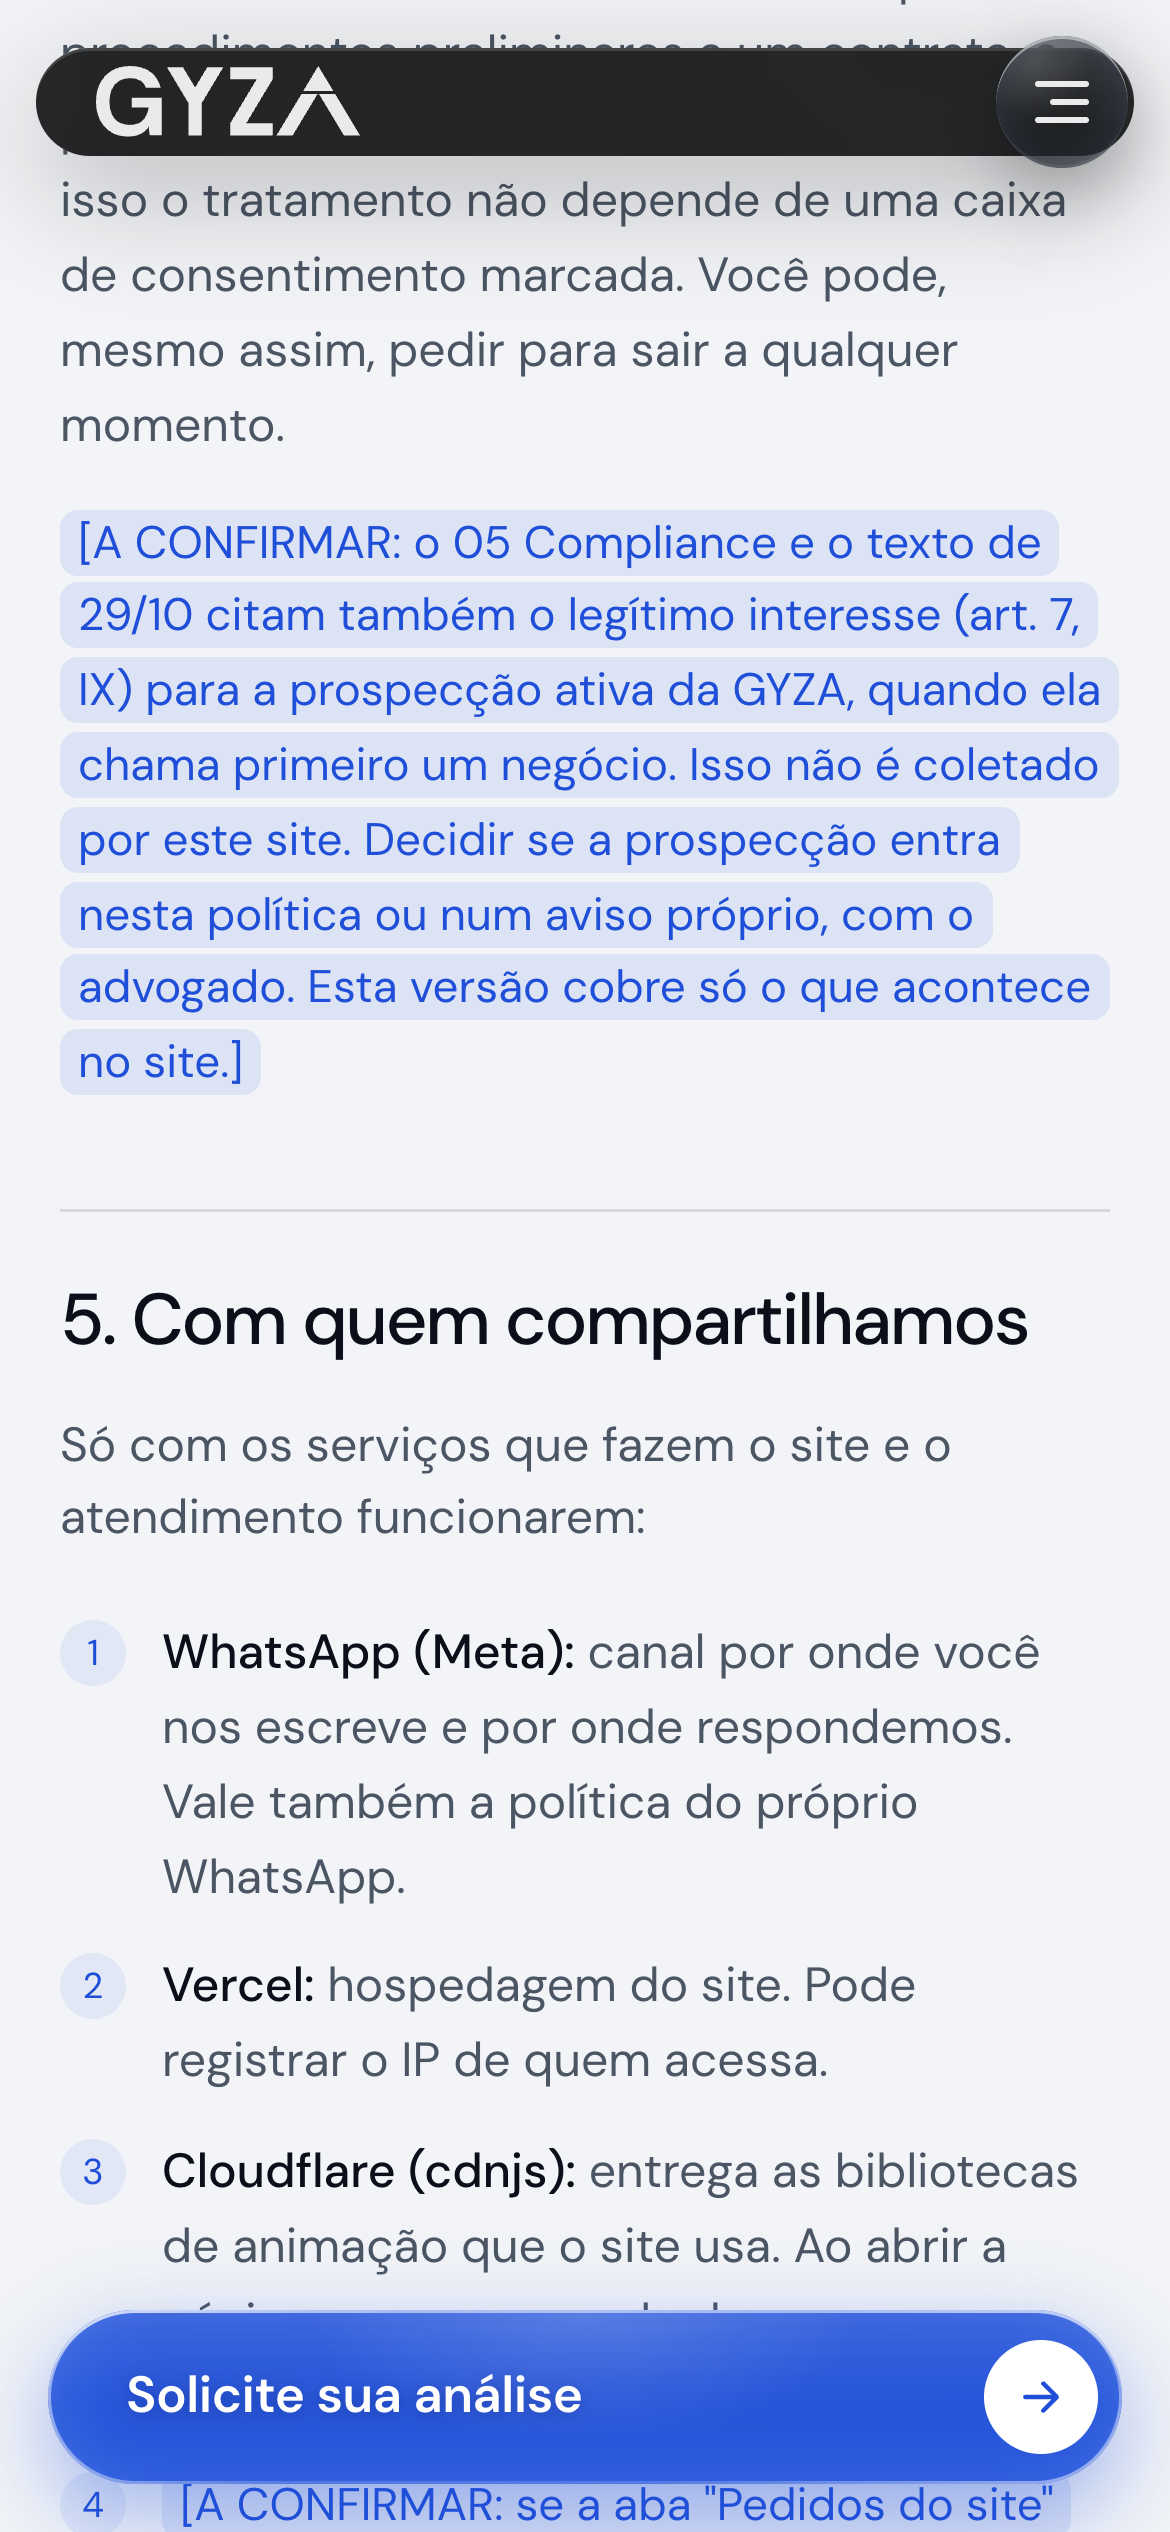
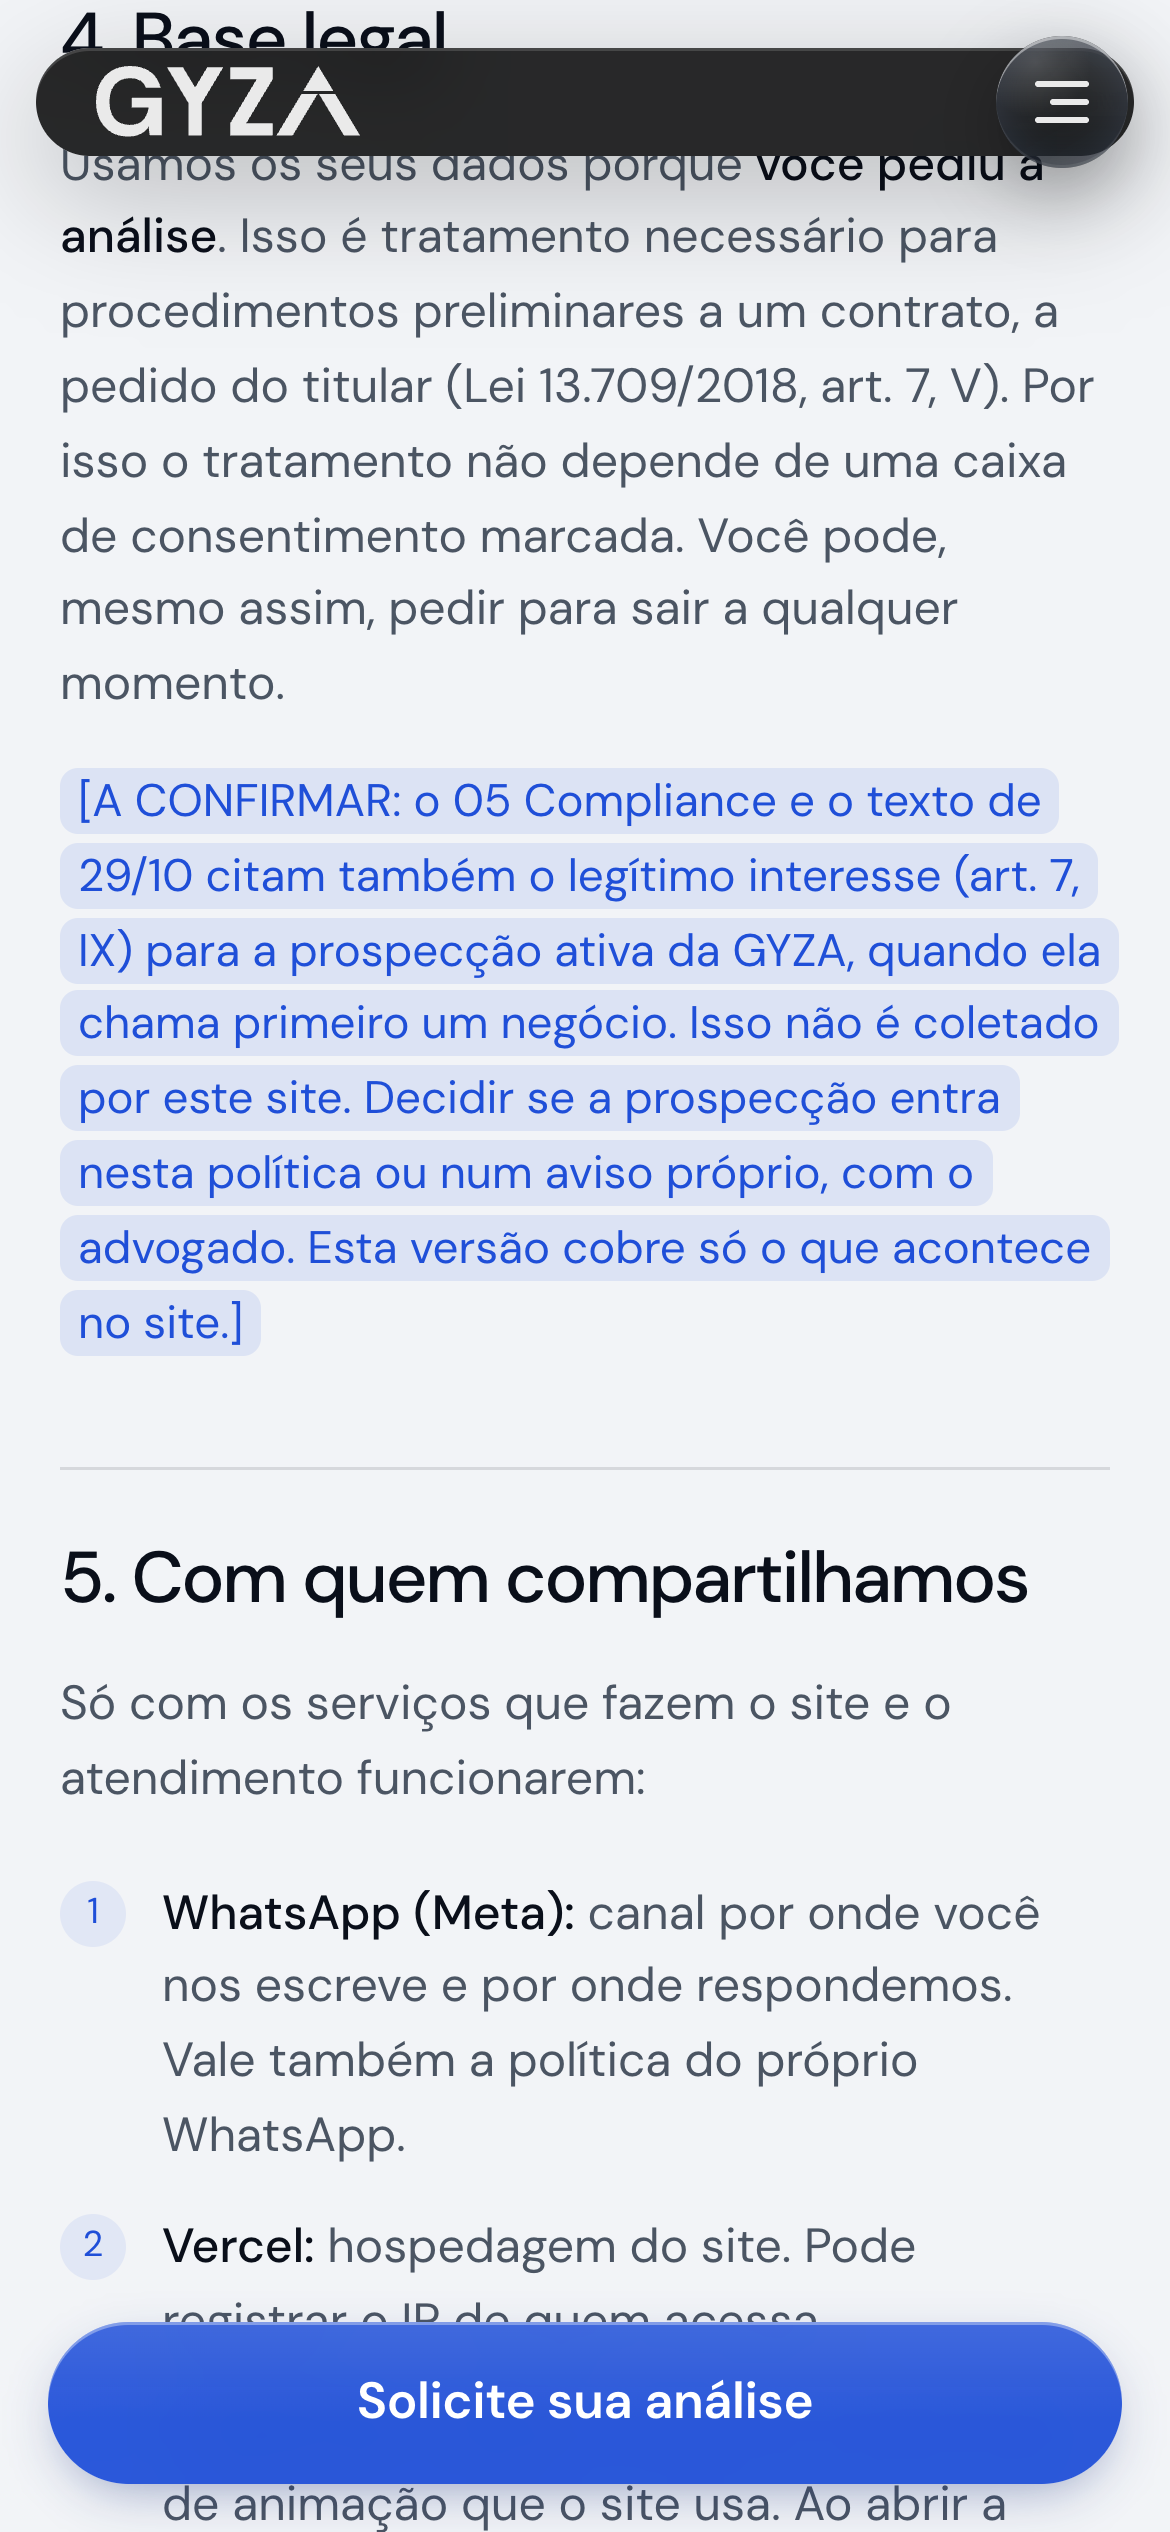
Celular: botao fixo clean (so a pilula azul em vidro discreto, texto centralizado, sem seta e sem halo); piramide com titulo, apoio e bloco da camada centralizados; ?v= novo

Changed region(s): [[0.0308, 0.0624, 0.9538, 0.5304], [0.0308, 0.5616, 0.9538, 1.0], [0.0615, 0.0, 0.4, 0.0312]]

diff --git a/index.html b/index.html
@@ -25,7 +25,7 @@
 <meta name="theme-color" content="#050505">
 <link rel="icon" href="assets/img/favicon.svg" type="image/svg+xml">
 <link rel="preload" href="assets/fonts/DMSans-VF-latin.woff" as="font" type="font/woff" crossorigin>
-<link rel="stylesheet" href="css/style.css?v=1793941500">
+<link rel="stylesheet" href="css/style.css?v=1793942900">
 <script type="importmap">
 { "imports": { "three": "https://cdn.jsdelivr.net/npm/three@0.165.0/build/three.module.js" }, "integrity": { "https://cdn.jsdelivr.net/npm/three@0.165.0/build/three.module.js": "sha384-Qvl1RLjZOCDFOOH2bKcGnaDHMM8MVv3zVtMvhy3juQdiIOs6RgQ/7zYdM1FbpHzI" } }
 </script>
@@ -209,7 +209,7 @@
 
 <!-- celular: botão de análise fixo embaixo da tela -->
 <div class="cta-grupo">
-<a class="pill cta-baixo" data-magnetic href="#analise"><span class="cta-baixo__txt"><span class="cta-baixo__l1">Solicite sua análise</span></span><svg class="cta-baixo__seta" viewBox="0 0 24 24" aria-hidden="true"><path d="M5 12h14M13 6l6 6-6 6"/></svg></a>
+<a class="pill cta-baixo" data-magnetic href="#analise"><span class="cta-baixo__txt"><span class="cta-baixo__l1">Solicite sua análise</span></span></a>
 </div>
 
 <main id="conteudo" tabindex="-1">
@@ -561,6 +561,6 @@
 
 <script src="https://cdnjs.cloudflare.com/ajax/libs/gsap/3.12.5/gsap.min.js" integrity="sha512-7eHRwcbYkK4d9g/6tD/mhkf++eoTHwpNM9woBxtPUBWm67zeAfFC+HrdoE2GanKeocly/VxeLvIqwvCdk7qScg==" crossorigin="anonymous" referrerpolicy="no-referrer"></script>
 <script src="https://cdnjs.cloudflare.com/ajax/libs/gsap/3.12.5/ScrollTrigger.min.js" integrity="sha512-onMTRKJBKz8M1TnqqDuGBlowlH0ohFzMXYRNebz+yOcc5TQr/zAKsthzhuv0hiyUKEiQEQXEynnXCvNTOk50dg==" crossorigin="anonymous" referrerpolicy="no-referrer"></script>
-<script src="js/main.js?v=1793941500"></script>
+<script src="js/main.js?v=1793942900"></script>
 </body>
 </html>

diff --git a/css/style.css b/css/style.css
@@ -1526,3 +1526,26 @@ main:focus { outline: none; }
   .orcamento__wa { background: linear-gradient(180deg, rgba(255,255,255,.12), rgba(255,255,255,0) 55%), rgba(21, 128, 61, .97); }
   .orcamento__wa:hover { scale: 1; }
 }
+
+/* celular: botão fixo clean (Vitor, 05/11/2026): só a pílula azul em vidro discreto, texto centralizado, sem seta e sem halo escuro */
+@media (max-width: 900px) {
+  .cta-grupo .cta-baixo, .cta-grupo .cta-baixo.is-light {
+    height: 54px; padding: 0 24px; justify-content: center; text-shadow: none;
+    background: linear-gradient(180deg, rgba(255,255,255,.1), rgba(255,255,255,0) 60%), rgba(31, 79, 216, .94);
+    backdrop-filter: blur(12px) saturate(160%); -webkit-backdrop-filter: blur(12px) saturate(160%);
+    box-shadow: inset 0 1px 0 rgba(255,255,255,.35), 0 6px 18px -6px rgba(15, 40, 120, .45);
+  }
+  .cta-grupo .cta-baixo::after { display: none; }
+  .cta-grupo .cta-baixo .cta-baixo__txt { justify-items: center; }
+  .cta-grupo .cta-baixo .cta-baixo__l1 { font-size: 17px; font-weight: 600; }
+  .cta-grupo .cta-baixo:hover { scale: 1; box-shadow: inset 0 1px 0 rgba(255,255,255,.4), 0 8px 20px -6px rgba(15, 40, 120, .5); }
+}
+
+/* celular: a pirâmide é central, então título, apoio e o bloco da camada também ficam no meio (Vitor, 05/11/2026) */
+@media (max-width: 900px) {
+  .frentes__copy { justify-items: center; text-align: center; }
+  .frentes__intro, .frente .frente__txt { margin-inline: auto; }
+  .frentes__panels { justify-items: center; width: 100%; }
+  .frente { justify-self: stretch; }
+  .frentes__dots { justify-content: center; }
+}

diff --git a/privacidade.html b/privacidade.html
@@ -16,7 +16,7 @@
 <meta name="theme-color" content="#050505">
 <link rel="icon" href="assets/img/favicon.svg" type="image/svg+xml">
 <link rel="preload" href="assets/fonts/DMSans-VF-latin.woff" as="font" type="font/woff" crossorigin>
-<link rel="stylesheet" href="css/style.css?v=1793941500">
+<link rel="stylesheet" href="css/style.css?v=1793942900">
 </head>
 <body class="priv">
 <a class="pular" href="#conteudo">Pular para o conteúdo</a>
@@ -70,7 +70,7 @@
 
 <!-- celular: botão de análise fixo embaixo da tela -->
 <div class="cta-grupo">
-<a class="pill cta-baixo" data-magnetic href="index.html#analise"><span class="cta-baixo__txt"><span class="cta-baixo__l1">Solicite sua análise</span></span><svg class="cta-baixo__seta" viewBox="0 0 24 24" aria-hidden="true"><path d="M5 12h14M13 6l6 6-6 6"/></svg></a>
+<a class="pill cta-baixo" data-magnetic href="index.html#analise"><span class="cta-baixo__txt"><span class="cta-baixo__l1">Solicite sua análise</span></span></a>
 </div>
 
 <main id="conteudo" tabindex="-1">
@@ -227,6 +227,6 @@
   <div class="wrap footer__legal"><span>© 2026 Glory Digital LTDA. GYZA é o nome fantasia da Glory Digital LTDA, CNPJ 43.637.282/0001-45.</span><span class="footer__links"><a href="index.html">Início</a><a href="#topo">Voltar ao topo</a></span></div>
 </footer>
 
-<script src="js/privacidade.js?v=1793941500"></script>
+<script src="js/privacidade.js?v=1793942900"></script>
 </body>
 </html>
